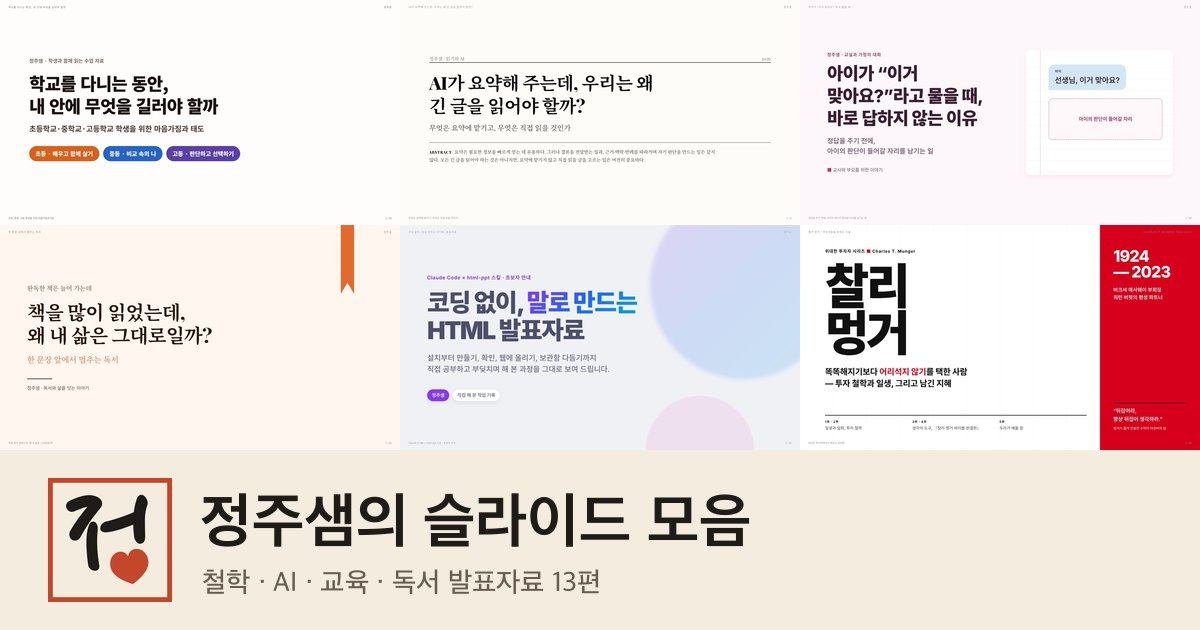
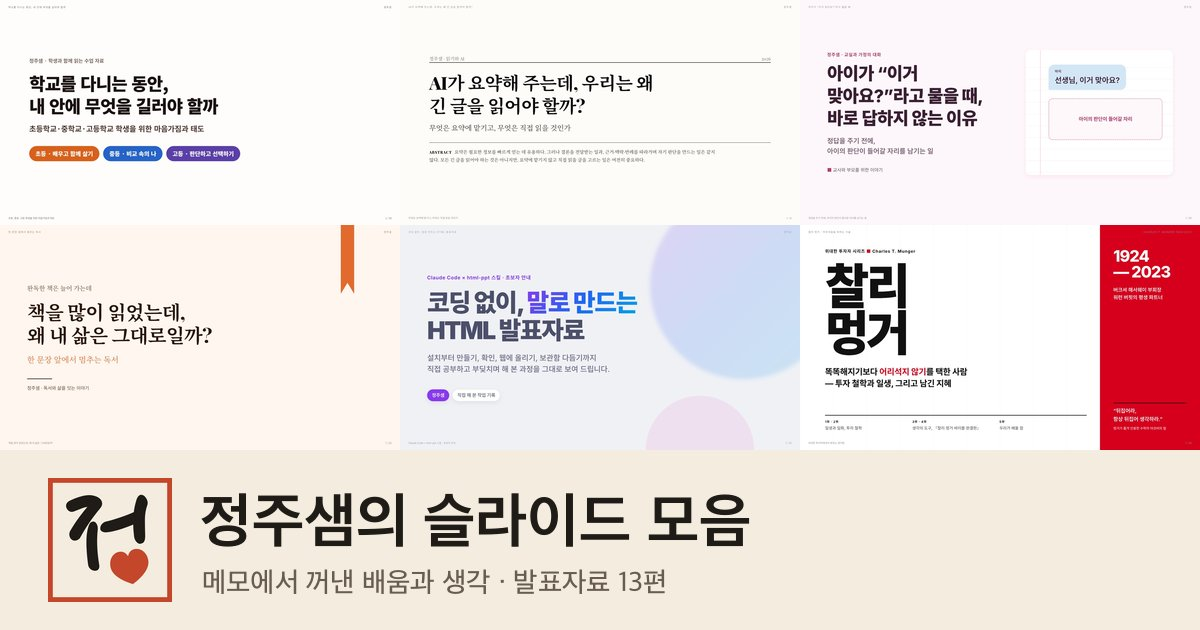
채널 소개('메모에서 꺼낸 배움과 생각')에 맞춰 문구와 첫 페이지 다듬기
- 첫 화면 원고지 첫 줄 빈칸에 테이프 붙인 손글씨 메모 '메모에서 꺼낸 배움과 생각'
- 소개 문구: 읽고 배우고 가르치며 쌓아 온 메모로 교육·인문학·독서 이야기
- 첫 페이지에 '세 갈래로 모은 메모'(교육·인문학·독서) 쪽지 구역, 갈래별 편수와 최신 발표자료
- 바닥글 '함께 읽고, 생각하고, 배워요.', 설명(meta)·공유 그림 문구 변경

Changed region(s): [[0.1542, 0.9048, 0.555, 0.9651]]

diff --git a/index.html b/index.html
@@ -4,12 +4,12 @@
 <meta charset="utf-8">
 <meta name="viewport" content="width=device-width,initial-scale=1">
 <title>정주샘의 슬라이드 모음</title>
-<meta name="description" content="정주샘이 만든 철학·문학·AI 발표 슬라이드 모음. 브라우저에서 바로 열고 키보드로 넘기며 발표할 수 있습니다.">
+<meta name="description" content="메모에서 꺼낸 배움과 생각, 정주샘의 슬라이드 모음. 읽고 배우고 가르치며 쌓아 온 메모로 교육·인문학·독서 이야기를 발표자료로 나눕니다.">
 <link rel="canonical" href="https://eunhorang.github.io/html-ppt-archive/">
 <meta property="og:type" content="website">
 <meta property="og:site_name" content="정주샘의 슬라이드 모음">
 <meta property="og:title" content="정주샘의 슬라이드 모음">
-<meta property="og:description" content="정주샘이 만든 철학·문학·AI 발표 슬라이드 모음. 브라우저에서 바로 열고 키보드로 넘기며 발표할 수 있습니다.">
+<meta property="og:description" content="메모에서 꺼낸 배움과 생각, 정주샘의 슬라이드 모음. 읽고 배우고 가르치며 쌓아 온 메모로 교육·인문학·독서 이야기를 발표자료로 나눕니다.">
 <meta property="og:url" content="https://eunhorang.github.io/html-ppt-archive/">
 <meta property="og:image" content="https://eunhorang.github.io/html-ppt-archive/assets/og.jpg">
 <meta property="og:image:width" content="1200">
@@ -33,12 +33,13 @@
 <main>
   <section class="hero">
     <div class="wrap hero-grid">
-      <div>
+      <div class="hero-main">
         <h1 class="sheet">
           <span class="row"><span class="cell mark"><span class="sr">정</span><svg viewBox="0 0 360 360" aria-hidden="true"><use href="assets/brand/brand.svg#mark"/></svg></span><span class="cell"><b style="--i:0">주</b></span><span class="cell"><b style="--i:1">샘</b></span><span class="cell"><b style="--i:2">의</b></span><span class="cell"></span><span class="cell"></span><span class="cell"></span><span class="sr"> </span></span>
           <span class="row"><span class="cell"><b style="--i:3">슬</b></span><span class="cell"><b style="--i:4">라</b></span><span class="cell"><b style="--i:5">이</b></span><span class="cell"><b style="--i:6">드</b></span><span class="cell"> </span><span class="cell"><b style="--i:7">모</b></span><span class="cell"><b style="--i:8">음</b></span></span>
         </h1>
-        <p class="lede rise" style="--i:0">철학과 문학, AI를 다룬 발표자료를 모아 둔 곳입니다. 브라우저에서 바로 열리고, 키보드로 넘기며 발표할 수 있습니다.</p>
+        <p class="memo-note"><span class="sr">메모에서 꺼낸 배움과 생각</span><svg viewBox="-6 -24 848 196" aria-hidden="true"><use href="assets/brand/brand.svg#memo"/></svg></p>
+        <p class="lede rise" style="--i:0">읽고, 배우고, 가르치며 쌓아 온 메모를 꺼내 교육·인문학·독서 이야기를 슬라이드로 나눕니다.</p>
         <div class="actions rise" style="--i:1">
           <a class="btn" href="list.html">전체 목록 보기 <span class="arr" aria-hidden="true">→</span></a>
           <a class="plain" id="latest" href="list.html">최신 발표 열기 <span class="arr" aria-hidden="true">→</span></a>
@@ -60,6 +61,19 @@
     <div class="mosaic" id="mosaic"></div>
   </section>
 
+  <section class="wrap memos" aria-labelledby="memos-title">
+    <div class="memos-head">
+      <h2 id="memos-title" data-reveal>세 갈래로 모은 메모</h2>
+      <p data-reveal>책에서 얻은 배움이 교실과 일상으로 이어지고, 작은 메모 하나가 새로운 생각의 시작이 되기를 바랍니다.</p>
+    </div>
+    <!-- 갈래마다 맞는 주제의 최신 발표자료 세 편을 아래 스크립트가 채웁니다. -->
+    <ul class="memo-list">
+      <li class="memo" data-reveal data-topics="교육" data-more="list.html?topic=%EA%B5%90%EC%9C%A1"><h3>교육 <span></span></h3><p>학생들과 함께 배우고 성장하기 위한 교육 자료와 생각</p><ul class="memo-decks"></ul></li>
+      <li class="memo" data-reveal data-topics="철학,심리,문학" data-more="list.html"><h3>인문학 <span></span></h3><p>인간과 삶을 이해하고, 스스로 질문하는 힘을 기르는 이야기</p><ul class="memo-decks"></ul></li>
+      <li class="memo" data-reveal data-topics="독서" data-more="list.html?topic=%EB%8F%85%EC%84%9C"><h3>독서 <span></span></h3><p>책의 핵심 내용과 인상 깊은 문장, 읽고 난 뒤의 생각 정리</p><ul class="memo-decks"></ul></li>
+    </ul>
+  </section>
+
   <section class="wrap videos" id="videos" aria-labelledby="videos-title">
     <div class="videos-head">
       <h2 id="videos-title" data-reveal>영상으로 미리 보기</h2>
@@ -77,10 +91,10 @@
 <footer class="wrap site-foot">
   <div class="foot-brand">
     <svg viewBox="0 0 470 480" role="img" aria-label="정주샘 로고: 원고지 칸에 손글씨로 쓴 정, 받침 자리의 빨간 하트, 주샘이라고 쓴 쪽지"><use href="assets/brand/brand.svg#emblem"/></svg>
-    <p>원고지에 한 글자씩 쓰듯, 발표자료를 한 장씩 만듭니다.</p>
+    <p>함께 읽고, 생각하고, 배워요.</p>
   </div>
   <div class="foot-cols">
-    <div><h3>소개</h3><p>html-ppt로 만든 발표 슬라이드를 한곳에 모았습니다. 새 발표자료가 생기면 목록 맨 위에 더해집니다.</p></div>
+    <div><h3>소개</h3><p>옵시디언에 차곡차곡 모은 메모를 꺼내 만든 발표자료를 한곳에 모았습니다. 새 발표자료가 생기면 목록 맨 위에 더해집니다.</p></div>
     <div><h3>바로가기</h3><ul><li><a href="./">처음으로</a></li><li><a href="list.html">전체 목록</a></li><li><a href="how.html">사용법</a></li><li><a href="list.html" id="foot-latest">최신 발표</a></li></ul></div>
     <div><h3>GitHub</h3><ul><li><a href="https://github.com/Eunhorang/html-ppt-archive">저장소 보기</a></li><li><a href="https://github.com/Eunhorang">GitHub 프로필</a></li></ul></div>
     <div><h3>만든 도구</h3><ul><li>슬라이드 엔진 html-ppt</li><li>MIT 라이선스</li></ul></div>
@@ -146,6 +160,27 @@
   tally.style.setProperty('--span-sm', tiles.length % 2 ? 1 : 2);
   tiles.push(tally);
   tiles.forEach((el, i) => { el.style.setProperty('--t', i); mosaic.append(el); });
+
+  // 세 갈래 메모: 갈래에 속한 주제의 발표자료 편수와 최신 세 편
+  document.querySelectorAll('.memo').forEach((m) => {
+    const topics = m.dataset.topics.split(',');
+    const hits = data.filter((d) => d.topics.some((t) => topics.includes(t)));
+    m.querySelector('h3 span').textContent = hits.length ? `${hits.length}편` : '';
+    const list = m.querySelector('.memo-decks');
+    hits.slice(0, 3).forEach((d) => {
+      const li = document.createElement('li');
+      const a = document.createElement('a');
+      a.href = href(d); a.textContent = d.title;
+      li.append(a); list.append(li);
+    });
+    if (hits.length > 3) {
+      const li = document.createElement('li'); li.className = 'more-li';
+      li.innerHTML = '<a class="more" href=""></a>';
+      li.querySelector('a').href = m.dataset.more;
+      li.querySelector('a').innerHTML = `${hits.length}편 모두 보기 <span class="arr" aria-hidden="true">→</span>`;
+      list.append(li);
+    }
+  });
 
   // 영상 목록에서 고르면 위 재생기의 영상이 바뀝니다.
   const vid = document.getElementById('vid');

diff --git a/assets/site.css b/assets/site.css
@@ -7,7 +7,7 @@
   --ink:#1f1c18; --ink-2:#2d2924; --muted:#665d50; --soft-on-ink:#bcb1a0; --on-ink:#f3ecdf;
   --accent:#c4472b; --accent-hover:#a83a21; --accent-ink:#fff; --accent-on-ink:#e8694b;
   --cell:#dcb4a3;
-  --brand-accent:var(--accent); --brand-fill:none;
+  --brand-accent:var(--accent); --brand-fill:none; --brand-note:var(--paper); --tape:#e9c98f;
   --font:-apple-system,BlinkMacSystemFont,'Pretendard Variable',Pretendard,'Apple SD Gothic Neo',system-ui,sans-serif;
   --step-small:clamp(.875rem,.85rem + .1vw,.9375rem);
   --step-body:clamp(1.0625rem,1.02rem + .25vw,1.1875rem);
@@ -59,6 +59,11 @@ img{display:block;max-width:100%}
 /* ── 첫 화면 (index.html): 머리 줄과 이어지는 종이 판 ── */
 .hero{padding-block:clamp(24px,3.6vw,56px) clamp(72px,8vw,128px)}
 .hero-grid{display:grid;grid-template-columns:minmax(0,1.7fr) minmax(0,1fr);gap:clamp(40px,6vw,96px);align-items:end}
+/* 채널 소개 첫 줄을 테이프로 붙인 메모로. 원고지 첫 줄 '의' 뒤의 빈 세 칸 위에 붙습니다. */
+.hero-main{position:relative;--c:min(116px,7.6vw)}
+.hero .sheet{--c:inherit}
+.memo-note{position:absolute;z-index:2;left:calc(var(--c)*4.05);top:calc(var(--c)*.12);width:calc(var(--c)*3.7);margin:0;color:var(--ink);--memo-tilt:-3deg;transform:rotate(var(--memo-tilt));transform-origin:50% 0}
+.memo-note svg{display:block;width:100%;height:auto;overflow:visible}
 .hero .lede{margin:clamp(28px,3.4vw,44px) 0 0;max-width:36ch;font-size:var(--step-lead);line-height:1.55;color:var(--ink)}
 .actions{display:flex;flex-wrap:wrap;align-items:center;gap:16px 32px;margin-top:clamp(32px,4vw,48px)}
 .facts{padding-bottom:8px}
@@ -94,6 +99,28 @@ img{display:block;max-width:100%}
 .tally strong{font-size:var(--step-lead);font-weight:800;letter-spacing:-.03em;line-height:1.2}
 .tally span{font-size:var(--step-body)}
 .fallback-tile{width:100%;height:100%;display:flex;align-items:flex-end;padding:20px;background:var(--surface);color:var(--ink);font-size:var(--step-lead);line-height:1.25}
+
+/* ── 세 갈래로 모은 메모 (index.html): 교육·인문학·독서를 테이프 붙인 쪽지로 ── */
+.memos{padding-block:clamp(88px,10vw,160px) clamp(96px,11vw,176px)}
+.memos-head{display:grid;grid-template-columns:var(--axis) 1fr;align-items:end;margin-bottom:clamp(48px,6vw,88px)}
+.memos-head h2{margin:0;padding-right:clamp(24px,3vw,48px);font-size:var(--step-head);font-weight:800;line-height:1.15;letter-spacing:-.045em}
+.memos-head p{margin:0;max-width:34ch;font-size:var(--step-lead);line-height:1.55}
+.memo-list{list-style:none;margin:0;padding:0;display:grid;grid-template-columns:repeat(3,1fr);gap:clamp(24px,3vw,48px);align-items:start}
+.memo{position:relative;padding:clamp(32px,3vw,44px) clamp(24px,2.4vw,36px) clamp(28px,2.6vw,36px);background:var(--paper);border:3px solid var(--ink);transform:rotate(var(--tilt,0deg));transition:transform .4s var(--ease-out)}
+.memo::before{content:"";position:absolute;top:-16px;left:50%;width:84px;height:30px;margin-left:-42px;background:var(--tape);opacity:.85;transform:rotate(var(--tape-tilt,4deg))}
+.memo:nth-child(1){--tilt:-1.4deg}
+.memo:nth-child(2){--tilt:.9deg;--tape-tilt:-3deg;margin-top:clamp(24px,3vw,56px)}
+.memo:nth-child(3){--tilt:-.5deg;margin-top:clamp(8px,1vw,20px)}
+.memo:hover{transform:rotate(0deg) translateY(-4px)}
+.memo h3{display:flex;align-items:baseline;justify-content:space-between;gap:12px;margin:0 0 12px;font-size:var(--step-head);font-weight:800;letter-spacing:-.045em;line-height:1.1}
+.memo h3 span{color:var(--accent);font-size:var(--step-body);font-weight:700;letter-spacing:-.01em;font-variant-numeric:tabular-nums}
+.memo>p{margin:0;font-size:var(--step-body);line-height:1.6}
+.memo-decks{list-style:none;margin:24px 0 0;padding:0;display:grid;gap:10px}
+.memo-decks:empty{display:none}
+.memo-decks a{display:block;font-size:var(--step-body);font-weight:600;line-height:1.45;letter-spacing:-.02em;text-decoration:underline 2px transparent;text-underline-offset:5px;transition:text-decoration-color .2s}
+.memo-decks a:hover{text-decoration-color:var(--accent)}
+.memo-decks .more-li{margin-top:6px}
+.memo-decks .more-li a{display:inline;font-weight:700;text-decoration-color:var(--accent)}
 
 /* ── 영상으로 미리 보기 (index.html, 실을 영상이 없으면 숨김) ── */
 .videos{display:grid;grid-template-columns:var(--axis) 1fr;padding-block:clamp(72px,10svh,128px)}
@@ -209,6 +236,7 @@ kbd{display:inline-grid;place-items:center;min-width:48px;height:48px;padding:0 
 @media (prefers-reduced-motion:no-preference){
   .js .cell b{opacity:0;transform:translateY(18%);animation:write .6s var(--ease-out) forwards;animation-delay:calc(var(--i,0)*70ms + 260ms)}
   .js .cell.mark svg{opacity:0;transform:scale(.86) rotate(-4deg);animation:stamp .7s var(--ease-out) forwards;animation-delay:80ms}
+  .js .memo-note{opacity:0;animation:memo-in .8s var(--ease-out) forwards;animation-delay:1s}
   .wordmark svg{transition:transform .3s var(--ease-out)}
   .wordmark:hover svg{transform:rotate(-2deg)}
   .js .rise{opacity:0;transform:translateY(18px);animation:fade-up .8s var(--ease-out) forwards;animation-delay:calc(var(--i,0)*90ms + 400ms)}
@@ -218,6 +246,7 @@ kbd{display:inline-grid;place-items:center;min-width:48px;height:48px;padding:0 
 }
 @keyframes write{to{opacity:1;transform:none}}
 @keyframes stamp{to{opacity:1;transform:none}}
+@keyframes memo-in{from{opacity:0;transform:translateY(-14px) rotate(-8deg)}to{opacity:1;transform:rotate(var(--memo-tilt,-3deg))}}
 @keyframes fade-up{to{opacity:1;transform:none}}
 
 /* ── 태블릿·휴대폰 ── */
@@ -232,6 +261,12 @@ kbd{display:inline-grid;place-items:center;min-width:48px;height:48px;padding:0 
   .sheet,.page-head .sheet{--c:min(96px,calc((100vw - 2*var(--margin))/7))}
   .page-head .sheet{--c:min(80px,calc((100vw - 2*var(--margin))/7))}
   .foot-brand{grid-template-columns:1fr;justify-items:start}
+  .hero-main{--c:min(96px,calc((100vw - 2*var(--margin))/7))}
+  /* 좁은 화면에서는 빈칸이 작아 메모를 원고지 아래로 내립니다. */
+  .memo-note{position:relative;left:auto;top:auto;width:min(340px,82%);margin:22px 0 -6px 6px;--memo-tilt:-2deg}
+  .memos-head{grid-template-columns:1fr;gap:16px}
+  .memo-list{grid-template-columns:1fr;gap:40px;max-width:560px}
+  .memo:nth-child(n){margin-top:0}
   .page-head .aside b{display:inline;font-size:var(--step-lead);letter-spacing:-.02em;line-height:1.4;margin:0 12px 0 0}
   .facts ul{flex-basis:100%;margin-top:16px}
   .mosaic{grid-template-columns:repeat(2,1fr)}

diff --git a/list.html b/list.html
@@ -4,12 +4,12 @@
 <meta charset="utf-8">
 <meta name="viewport" content="width=device-width,initial-scale=1">
 <title>전체 목록 · 정주샘의 슬라이드 모음</title>
-<meta name="description" content="정주샘의 발표 슬라이드 전체 목록. 학기별로 정리되어 있고, 제목·내용·주제로 찾을 수 있습니다.">
+<meta name="description" content="정주샘의 교육·인문학·독서 발표자료 전체 목록. 학기별로 정리되어 있고, 제목·내용·주제로 찾을 수 있습니다.">
 <link rel="canonical" href="https://eunhorang.github.io/html-ppt-archive/list.html">
 <meta property="og:type" content="website">
 <meta property="og:site_name" content="정주샘의 슬라이드 모음">
 <meta property="og:title" content="전체 목록 · 정주샘의 슬라이드 모음">
-<meta property="og:description" content="정주샘의 발표 슬라이드 전체 목록. 학기별로 정리되어 있고, 제목·내용·주제로 찾을 수 있습니다.">
+<meta property="og:description" content="정주샘의 교육·인문학·독서 발표자료 전체 목록. 학기별로 정리되어 있고, 제목·내용·주제로 찾을 수 있습니다.">
 <meta property="og:url" content="https://eunhorang.github.io/html-ppt-archive/list.html">
 <meta property="og:image" content="https://eunhorang.github.io/html-ppt-archive/assets/og.jpg">
 <meta property="og:image:width" content="1200">
@@ -35,7 +35,7 @@
     <div class="wrap page-head-in">
       <div>
         <h1 class="sheet"><span class="row"><span class="cell"><b style="--i:0">전</b></span><span class="cell"><b style="--i:1">체</b></span><span class="cell"> </span><span class="cell"><b style="--i:2">목</b></span><span class="cell"><b style="--i:3">록</b></span></span></h1>
-        <p class="lede rise" style="--i:0">학기별로 정리했습니다. 제목이나 내용으로 찾고, 왼쪽 화면에서 슬라이드를 미리 넘겨 볼 수 있습니다.</p>
+        <p class="lede rise" style="--i:0">메모에서 꺼낸 발표자료를 학기별로 정리했습니다. 제목이나 내용으로 찾고, 왼쪽 화면에서 슬라이드를 미리 넘겨 볼 수 있습니다.</p>
       </div>
       <p class="aside rise" style="--i:1" id="aside-count"></p>
     </div>
@@ -180,10 +180,10 @@
 <footer class="wrap site-foot">
   <div class="foot-brand">
     <svg viewBox="0 0 470 480" role="img" aria-label="정주샘 로고: 원고지 칸에 손글씨로 쓴 정, 받침 자리의 빨간 하트, 주샘이라고 쓴 쪽지"><use href="assets/brand/brand.svg#emblem"/></svg>
-    <p>원고지에 한 글자씩 쓰듯, 발표자료를 한 장씩 만듭니다.</p>
+    <p>함께 읽고, 생각하고, 배워요.</p>
   </div>
   <div class="foot-cols">
-    <div><h3>소개</h3><p>html-ppt로 만든 발표 슬라이드를 한곳에 모았습니다. 새 발표자료가 생기면 목록 맨 위에 더해집니다.</p></div>
+    <div><h3>소개</h3><p>옵시디언에 차곡차곡 모은 메모를 꺼내 만든 발표자료를 한곳에 모았습니다. 새 발표자료가 생기면 목록 맨 위에 더해집니다.</p></div>
     <div><h3>바로가기</h3><ul><li><a href="./">처음으로</a></li><li><a href="list.html">전체 목록</a></li><li><a href="how.html">사용법</a></li><li><a href="list.html" id="foot-latest">최신 발표</a></li></ul></div>
     <div><h3>GitHub</h3><ul><li><a href="https://github.com/Eunhorang/html-ppt-archive">저장소 보기</a></li><li><a href="https://github.com/Eunhorang">GitHub 프로필</a></li></ul></div>
     <div><h3>만든 도구</h3><ul><li>슬라이드 엔진 html-ppt</li><li>MIT 라이선스</li></ul></div>

diff --git a/how.html b/how.html
@@ -69,10 +69,10 @@
 <footer class="wrap site-foot">
   <div class="foot-brand">
     <svg viewBox="0 0 470 480" role="img" aria-label="정주샘 로고: 원고지 칸에 손글씨로 쓴 정, 받침 자리의 빨간 하트, 주샘이라고 쓴 쪽지"><use href="assets/brand/brand.svg#emblem"/></svg>
-    <p>원고지에 한 글자씩 쓰듯, 발표자료를 한 장씩 만듭니다.</p>
+    <p>함께 읽고, 생각하고, 배워요.</p>
   </div>
   <div class="foot-cols">
-    <div><h3>소개</h3><p>html-ppt로 만든 발표 슬라이드를 한곳에 모았습니다. 새 발표자료가 생기면 목록 맨 위에 더해집니다.</p></div>
+    <div><h3>소개</h3><p>옵시디언에 차곡차곡 모은 메모를 꺼내 만든 발표자료를 한곳에 모았습니다. 새 발표자료가 생기면 목록 맨 위에 더해집니다.</p></div>
     <div><h3>바로가기</h3><ul><li><a href="./">처음으로</a></li><li><a href="list.html">전체 목록</a></li><li><a href="how.html">사용법</a></li><li><a href="list.html" id="foot-latest">최신 발표</a></li></ul></div>
     <div><h3>GitHub</h3><ul><li><a href="https://github.com/Eunhorang/html-ppt-archive">저장소 보기</a></li><li><a href="https://github.com/Eunhorang">GitHub 프로필</a></li></ul></div>
     <div><h3>만든 도구</h3><ul><li>슬라이드 엔진 html-ppt</li><li>MIT 라이선스</li></ul></div>

diff --git a/tools/make-og.py b/tools/make-og.py
@@ -2,7 +2,7 @@
 """링크 공유용 미리보기 그림(assets/og.jpg, 1200×630)을 만듭니다.
 
 카카오톡·밴드·메신저에 주소를 붙이면 이 그림이 뜹니다.
-위쪽은 먹색 바탕에 최신 발표자료 표지 6장, 아래 종이색 띠에는 원고지 칸 로고와 사이트 이름, 편수를 적습니다.
+위쪽은 먹색 바탕에 최신 발표자료 표지 6장, 아래 종이색 띠에는 원고지 칸 로고와 사이트 이름, '메모에서 꺼낸 배움과 생각'과 편수를 적습니다.
 tools/build.py가 목록을 만들 때마다 함께 실행합니다. (맥의 Pillow와 Apple SD Gothic Neo 글꼴 필요)
 """
 import json
@@ -47,12 +47,8 @@ def main():
     bold = ImageFont.truetype(FONT, 60, index=6)
     medium = ImageFont.truetype(FONT, 28, index=2)
     d.text((x0, H - BAND + 38), "정주샘의 슬라이드 모음", font=bold, fill=INK)
-    freq = {}
-    for deck in decks:
-        for t in deck["topics"]:
-            freq[t] = freq.get(t, 0) + 1
-    topics = " · ".join(sorted(freq, key=lambda t: -freq[t])[:4])
-    d.text((x0 + 2, H - BAND + 116), f"{topics} 발표자료 {len(decks)}편", font=medium, fill=MUTED)
+    # 둘째 줄은 유튜브 채널 소개 첫 줄과 같은 말
+    d.text((x0 + 2, H - BAND + 116), f"메모에서 꺼낸 배움과 생각 · 발표자료 {len(decks)}편", font=medium, fill=MUTED)
     out = ROOT / "assets" / "og.jpg"
     img.save(out, "JPEG", quality=85, optimize=True)
     print(f"공유 그림을 만들었습니다: {out.relative_to(ROOT)}")
